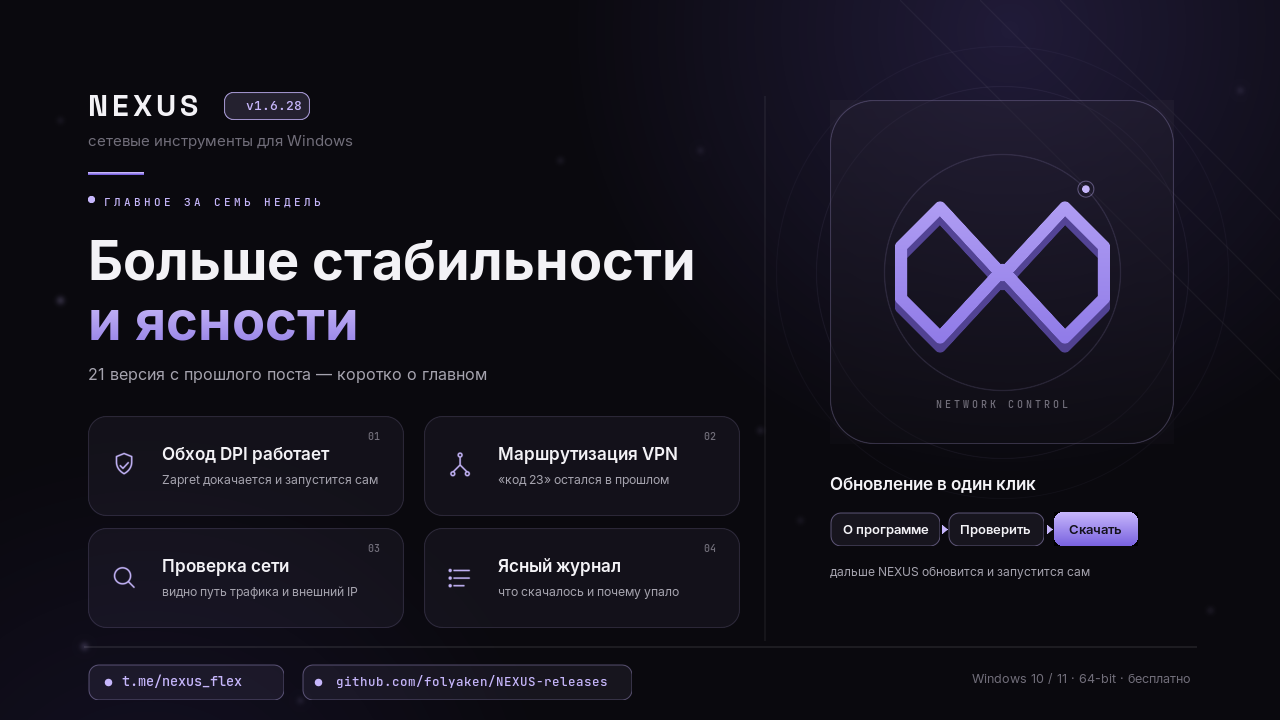
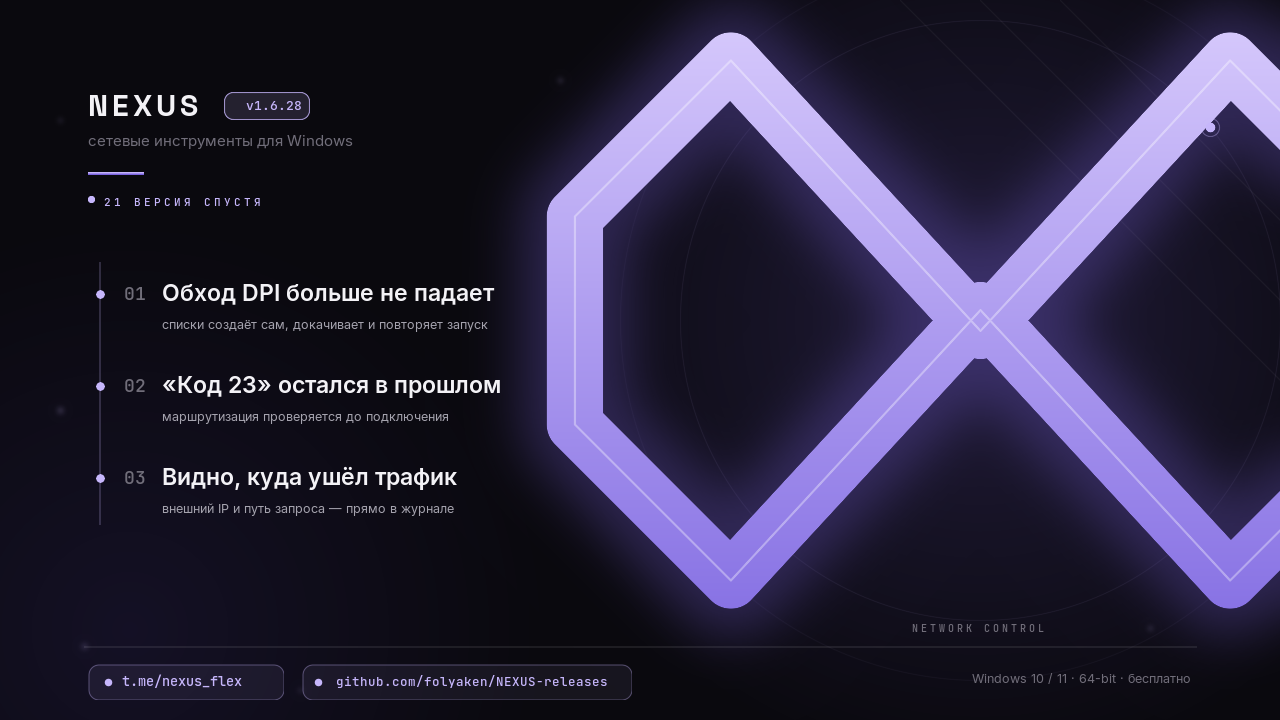
brand: индивидуальная карточка 1.6.28 — знак во всю правую часть
Вместо плиток и заголовка — композиция этого выпуска: большая
лента знака NEXUS уходит за правый край кадра, слева три главных
изменения с нумерованными точками на линии-пути. Иконки и плитки
не используются, узнаваемость даёт сам знак.

diff --git a/brand/posts/POST-1.6.28.md b/brand/posts/POST-1.6.28.md
@@ -5,7 +5,9 @@
 про пользу, а не про устройство.
 
 Картинка к посту: `brand/posts/card-1.6.28.png` (1280×720, оформление
-«Графит»). Карточка собирается скриптом `scripts/make-post-card-1.6.28.sh`.
+«Графит»). Особое оформление этого выпуска: знак NEXUS во всю правую часть
+кадра, слева — три главных изменения с нумерованными точками на линии-пути.
+Карточка собирается скриптом `scripts/make-post-card-1.6.28.sh`.
 
 ---
 
